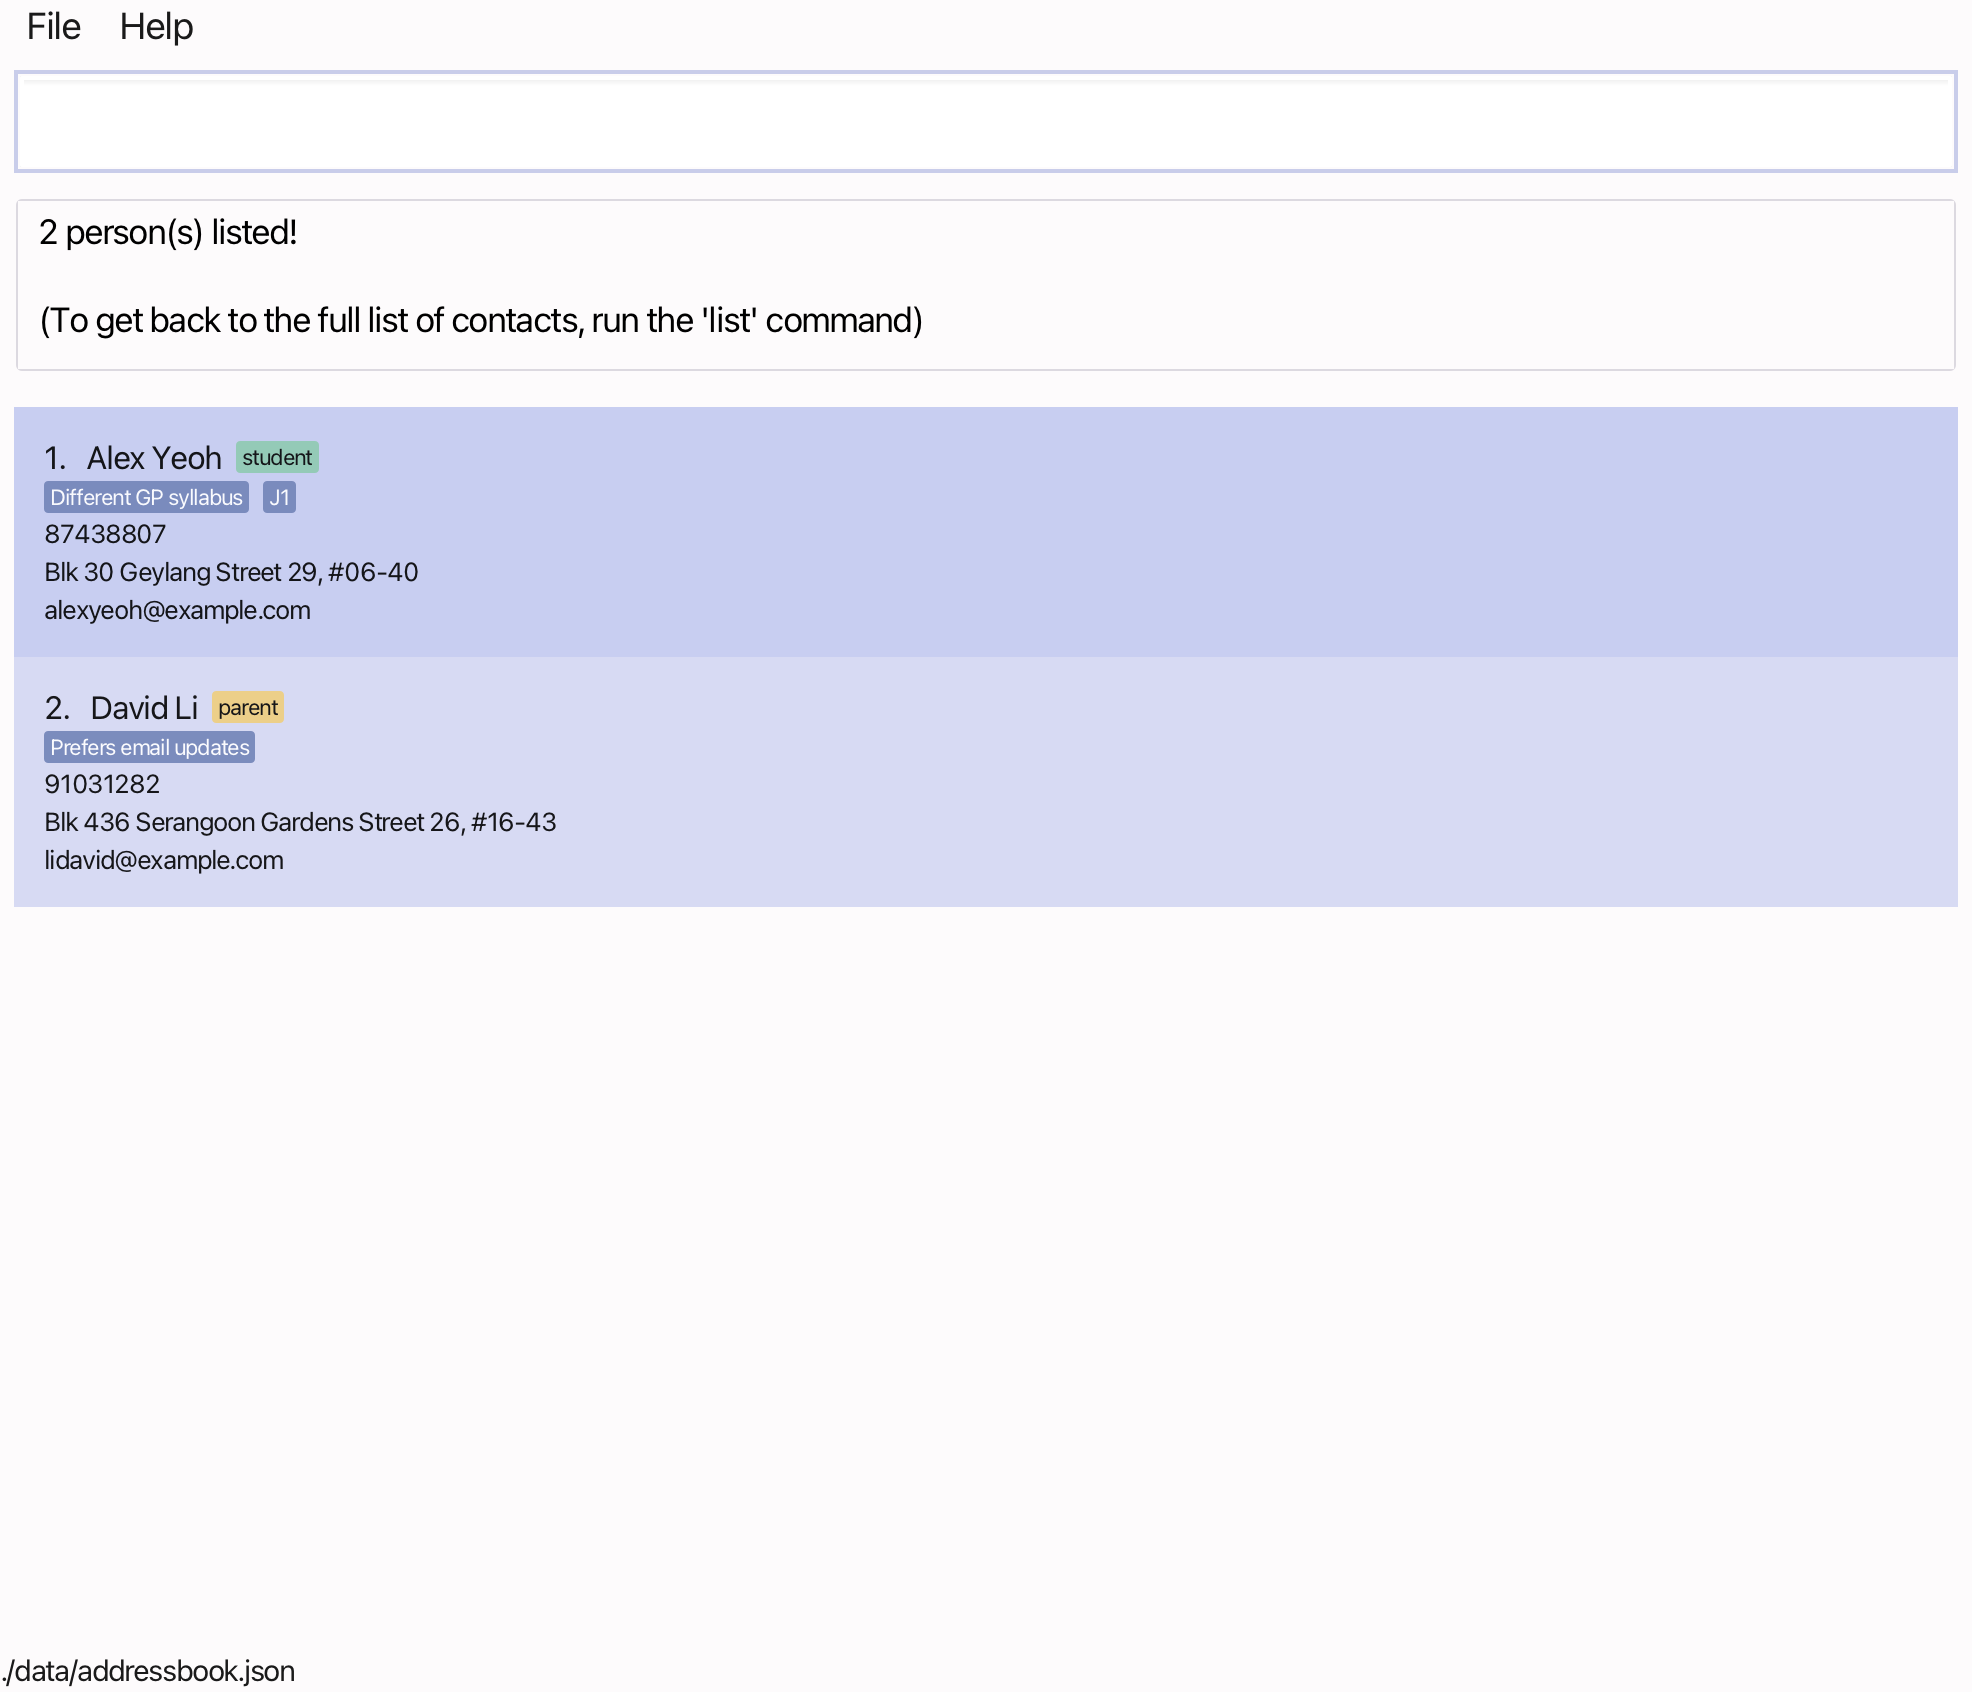
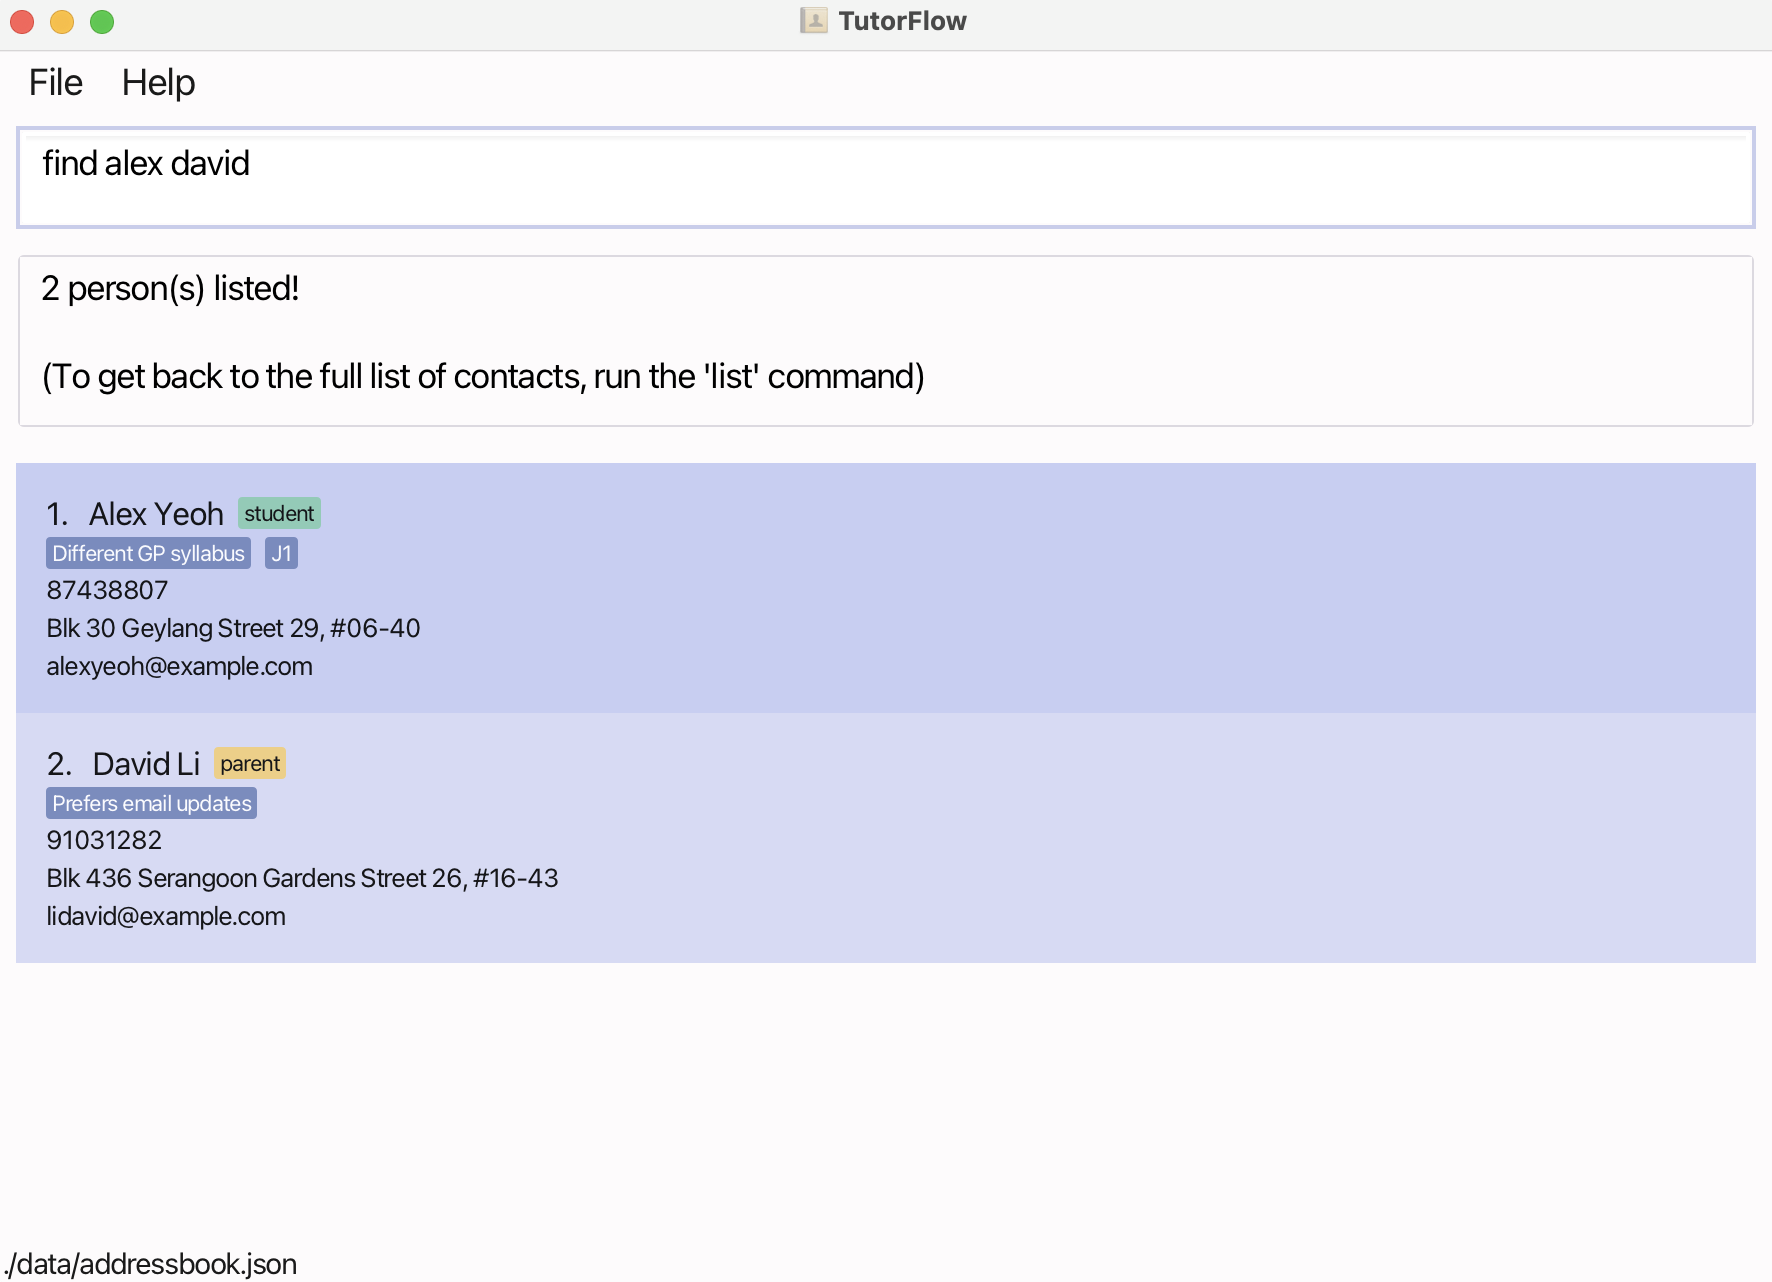
Update UG and DG formatting and pictures

diff --git a/docs/assets/css/custom-print.css b/docs/assets/css/custom-print.css
@@ -88,6 +88,14 @@
     margin-right: auto;
   }
 
+    img[src$="images/SampleUi.png"] {
+        width: 100%;
+        height: auto;
+        display: block;
+        margin-left: auto;
+        margin-right: auto;
+    }
+
   img[src$="images/delete2Result.png"] {
     width: 100%;
     height: auto;

diff --git a/docs/DeveloperGuide.md b/docs/DeveloperGuide.md
@@ -752,7 +752,7 @@ Priorities: High (must have) - `* * *`, Medium (nice to have) - `* *`, Low (unli
 * **Index**: The 1-based number that identifies a contact's position in the displayed list.
 * **Mainstream OS**: Windows, Linux, Unix, MacOS.
 * **MSS** (Main Success Scenario): A term used in use cases to describe the ideal workflow where everything happens as expected without any errors.
-* **Class** (tuition class)**: A scheduled GP tuition session identified by a day and timeslot.
+* **Class** (tuition class): A scheduled GP tuition session identified by a day and timeslot.
 * **Command**: A textual instruction executed in the CLI to perform an action (e.g., `add`, `delete`).
 * **Dataset**: The collection of all stored contacts and classes used by the application.
 * **JSON** (JavaScript Object Notation): The data format used by TutorFlow to persist information to disk.
@@ -899,7 +899,7 @@ testers are expected to do more *exploratory* testing.
 
    1. Prerequisite: Load the sample dataset for testing as described above.
 
-      1. run `linkParent n/Bernice Yu n/David Li`
+      1. Run `linkParent n/Bernice Yu n/David Li`
 
    1. Test case: `getParent n/Bernice Yu`<br>
       Expected: List is filtered to show "David Li". Command result indicates that "David Li" is the parent.
@@ -938,9 +938,9 @@ testers are expected to do more *exploratory* testing.
 
       1. Load the sample dataset for testing as described above.
 
-      1. run `createClass d/monday ti/h14`
+      1. Run `createClass d/monday ti/h14`
 
-      1. run `createClass d/thursday ti/h18`
+      1. Run `createClass d/thursday ti/h18`
 
    1. Test case: `getClasses`<br>
       Expected: Both classes are displayed in the list.
@@ -954,9 +954,9 @@ testers are expected to do more *exploratory* testing.
 
       1. Load the sample dataset for testing as described above.
 
-      1. run `createClass d/monday ti/h14`
+      1. Run `createClass d/monday ti/h14`
 
-      1. run `createClass d/thursday ti/h18`
+      1. Run `createClass d/thursday ti/h18`
 
    1. Test case: `linkClass d/monday ti/h14 n/Alex Yeoh`<br>
       Expected: The class is successfully linked to the student.
@@ -982,13 +982,13 @@ testers are expected to do more *exploratory* testing.
 
       1. Load the sample dataset for testing as described above.
 
-      1. run `createClass d/monday ti/h14`
+      1. Run `createClass d/monday ti/h14`
 
-      1. run `createClass d/thursday ti/h18`
+      1. Run `createClass d/thursday ti/h18`
 
-      1. run `linkClass d/monday ti/h14 n/Eric Hanson`
+      1. Run `linkClass d/monday ti/h14 n/Eric Hanson`
 
-      1. run `linkClass d/monday ti/h14 n/Alex Yeoh`
+      1. Run `linkClass d/monday ti/h14 n/Alex Yeoh`
 
    1. Test case: `unlinkClass d/monday ti/h14 n/Eric Hanson`<br>
       Expected: The class is successfully unlinked from the tutor "Eric Hanson".
@@ -1011,13 +1011,13 @@ testers are expected to do more *exploratory* testing.
 
       1. Load the sample dataset for testing as described above.
 
-      1. run `createClass d/monday ti/h14`
+      1. Run `createClass d/monday ti/h14`
 
-      1. run `createClass d/thursday ti/h18`
+      1. Run `createClass d/thursday ti/h18`
 
-      1. run `linkClass d/monday ti/h14 n/Eric Hanson`
+      1. Run `linkClass d/monday ti/h14 n/Eric Hanson`
 
-      1. run `linkClass d/thursday ti/h18 n/Eric Hanson`
+      1. Run `linkClass d/thursday ti/h18 n/Eric Hanson`
 
    1. Test case: `getClasses n/Eric Hanson`<br>
       Expected: The Monday 1400 and Thursday 1800 classes are displayed in the list.
@@ -1033,7 +1033,7 @@ testers are expected to do more *exploratory* testing.
 
    1. Close the app, and open the `addressbook,json` file. Create missing/corrupted data by editing any data such that it no longer fits the valid format. Examples include:
 
-      1. Phone numbers being less than 3 digits
+      1. Phone numbers that are not 8 digits
 
       1. Emails containing a domain of less than 2 characters
 

diff --git a/docs/UserGuide.md b/docs/UserGuide.md
@@ -22,7 +22,7 @@ title: User Guide
 
 4. Open a command terminal, navigate to that folder, and run: `java -jar TutorFlow.jar`<br>
    The app window should appear with sample data so you can try things out.<br>
-   ![Ui](images/Ui.png)
+   ![Sample](images/SampleUi.png)
 
 5. Type a command in the box and press **Enter** to execute it. <br>
    Some example commands you can try:
@@ -122,7 +122,9 @@ Format: `add c/*CATEGORY n/NAME p/PHONE_NUMBER e/EMAIL a/ADDRESS [t/TAG]…`
 * `ADDRESS` can take any values, and it should not be blank
 * `TAG` is optional and can be specified multiple times. However, tag names should not consist of only whitespace(s), and duplicate(s) will be ignored.
 
-Collecting all personal details (i.e. phone number, email and address) are necessary for tuition centres to be able to contact their customers. JC students should have the relevant contact details for their school life, so there is no need to account for persons who might not have them.
+<div markdown="span" class="alert alert-primary">:memo: **Note:**
+Collecting all personal detail fields (i.e. phone number, email and address) is essential for tuition centres to contact students, parents and tutors.
+</div>
 
 Examples:
 * `add c/student n/John Doe p/98765432 e/johnd@example.com a/John street, block 123, #01-01`
@@ -164,7 +166,7 @@ Edits an existing person in the address book.
 
 Format: `edit INDEX [c/*CATEGORY] [n/NAME] [p/PHONE] [e/EMAIL] [a/ADDRESS] [t/TAG]…`
 
-* Edits the person at the specified `INDEX` in the currently displayed list.
+* Edits the person at the specified `INDEX` in the **currently displayed list**.
 * The index must be a **positive number** (e.g. 1, 2, 3, …)
 * You must provide at least one field to change (e.g. n/, p/).
 * Editing tags will **replace all old tags** with the new ones you provide. To clear all tags, simply type t/ with nothing after it.
@@ -348,7 +350,7 @@ Format: `getClassDetails d/*DAY ti/*TIME`
 * To add people to a class, see [`linkClass`](#linking-a-person-to-a-class-linkclass).
 
 Examples:
-* `getClassDetails d/MONDAY ti/H16` displays the tutor and students in the Monday 4:00 PM class.
+* `getClassDetails d/MONDAY ti/H14` displays the tutor and students in the Monday 2:00 PM class.
 
 ![example of getClassDetails](images/getClassDetailsExample.png)
 

diff --git a/docs/AboutUs.md b/docs/AboutUs.md
@@ -5,16 +5,13 @@ title: About Us
 
 We are a team based in the [School of Computing, National University of Singapore](https://www.comp.nus.edu.sg).
 
-You can reach us at the email `seer[at]comp.nus.edu.sg`
-
-## Project team
+## Project Team
 
 ### Yap Ze Kai
 
 <img src="images/zekaistic.png" width="200px">
 
 [[github](https://github.com/zekaistic)]
-[[portfolio](team/johndoe.md)]
 
 * Role: Team Lead, Developer
 * Responsibilities: Deliverables and deadlines, Documentation
@@ -24,7 +21,6 @@ You can reach us at the email `seer[at]comp.nus.edu.sg`
 <img src="images/reynabxr.png" width="200px">
 
 [[github](http://github.com/reynabxr)]
-[[portfolio](team/johndoe.md)]
 
 * Role: Developer
 * Responsibilities: UI
@@ -34,7 +30,6 @@ You can reach us at the email `seer[at]comp.nus.edu.sg`
 <img src="images/oysterboi.png" width="200px">
 
 [[github](http://github.com/oysterboi)]
-[[portfolio](team/johndoe.md)]
 
 * Role: Developer
 * Responsibilities: UI, Code Quality
@@ -44,7 +39,6 @@ You can reach us at the email `seer[at]comp.nus.edu.sg`
 <img src="images/estherkyx.png" width="200px">
 
 [[github](https://github.com/estherkyx)]
-[[portfolio](team/johndoe.md)]
 
 * Role: Developer
 * Responsibilities: Testing
@@ -54,7 +48,6 @@ You can reach us at the email `seer[at]comp.nus.edu.sg`
 <img src="images/zzzyans.png" width="200px">
 
 [[github](https://github.com/zzzyans)]
-[[portfolio](team/johndoe.md)]
 
 * Role: Developer
 * Responsibilities: UI, Scheduling and tracking

diff --git a/docs/index.md b/docs/index.md
@@ -8,7 +8,7 @@ title: TutorFlow
 
 ### Run a modern tuition centre — without spreadsheets!
 
-**TutorFlow** is the desktop app for **GP tuition centre receptionists** to manage **JC-level tutees, tutors, and parents** in one place. Keep contacts, classes, schedules, and key notes organized and searchable — so you can spend less time coordinating and more time growing your centre.
+**TutorFlow** is the desktop app for **GP tuition centre receptionists** to manage **JC-level tutees, tutors, and parents** in one place. Keep contacts, classes, schedules, and key notes organised and searchable — so you can spend less time coordinating and more time growing your centre.
 
 - **Who it's for**: GP tuition centres and small-to-mid tuition teams
 - **What it replaces**: Excel/Google Sheets class rosters, contacts lists, class scheduling
@@ -24,7 +24,7 @@ title: TutorFlow
 ### Key capabilities
 
 - **Unified contact management**: Store and search tutees, tutors, and parents with essential details.
-- **Class scheduling & tracking**: Organize classes, and assign tutees/tutors to them.
+- **Class scheduling & tracking**: Organise classes, and assign tutees/tutors to them.
 - **Fast keyboard-first commands**: Power users can manage data quickly with commands and shortcuts.
 - **Reliable offline desktop app**: JavaFX-based app that runs locally and works without internet.
 
